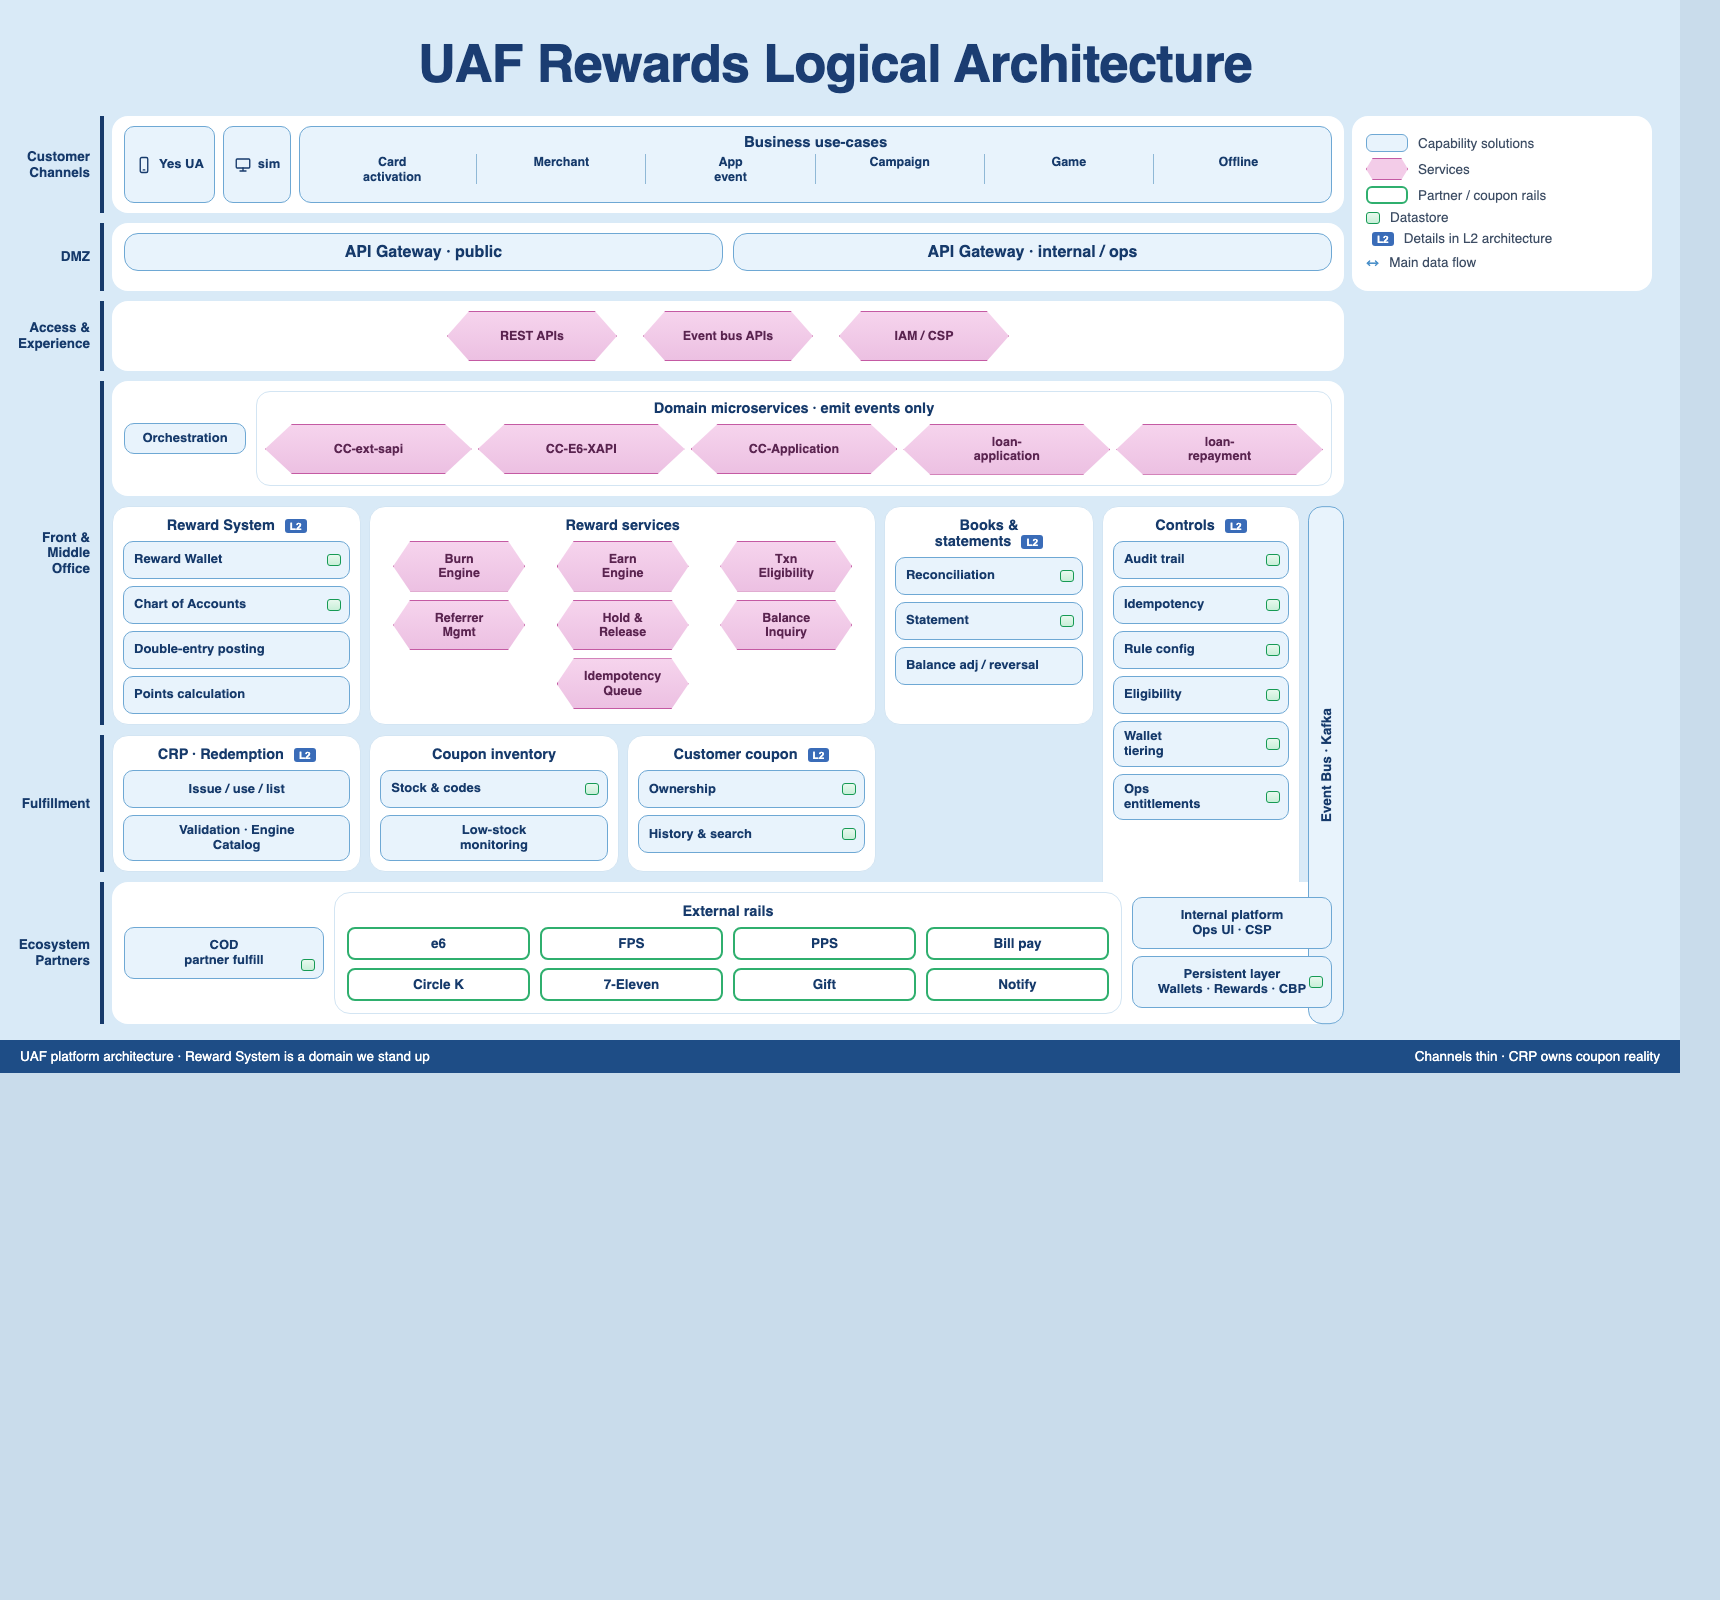
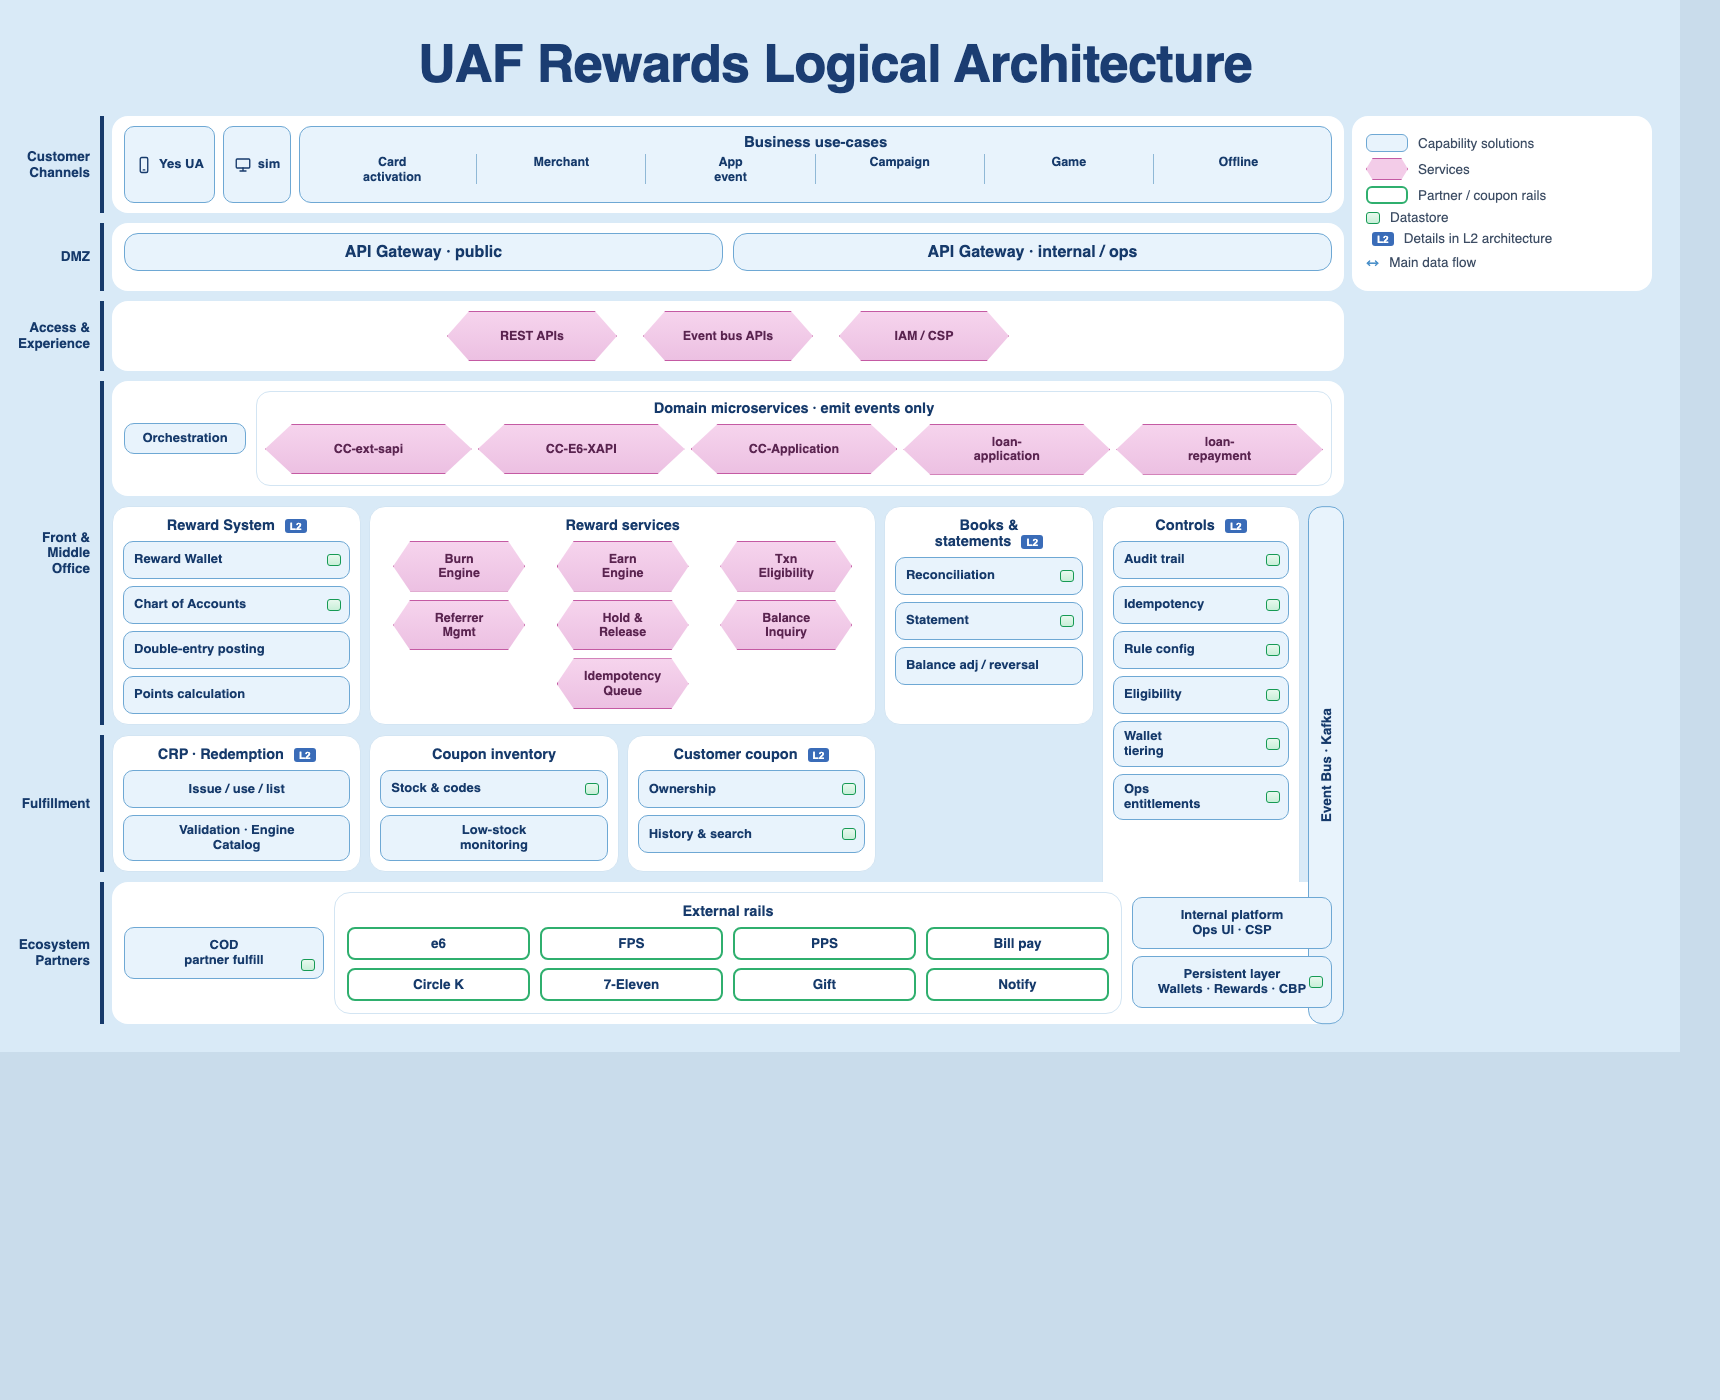
docs(decks): remove footer from UAF Rewards L1 poster

Changed region(s): [[0.0, 0.0307, 0.986, 0.7371], [0.0, 0.5836, 0.0616, 0.6143], [0.0, 0.0921, 0.0616, 0.1229]]

diff --git a/docs/decks/uaf-rewards-logical-architecture.html b/docs/decks/uaf-rewards-logical-architecture.html
@@ -7,7 +7,7 @@
 <style>
   *{box-sizing:border-box;margin:0;padding:0}
   body{background:#c9dceb;font-family:"Source Sans 3","Segoe UI",sans-serif;color:#1a2a44}
-  .poster{width:1680px;background:#d9eaf7;padding:32px 28px 0 18px}
+  .poster{width:1680px;background:#d9eaf7;padding:32px 28px 28px 18px}
   h1{text-align:center;font-size:52px;font-weight:800;color:#1b3d72;letter-spacing:-.6px;margin:2px 0 22px}
   .g{
     display:grid;
@@ -223,10 +223,6 @@
         <div class="cap jbox">Persistent layer<br>Wallets · Rewards · CBP<span class="db dbr"></span></div>
       </div>
     </div>
-  </div>
-  <div class="footer">
-    <div>UAF platform architecture · Reward System is a domain we stand up</div>
-    <div>Channels thin · CRP owns coupon reality</div>
   </div>
 </div>
 </body>
